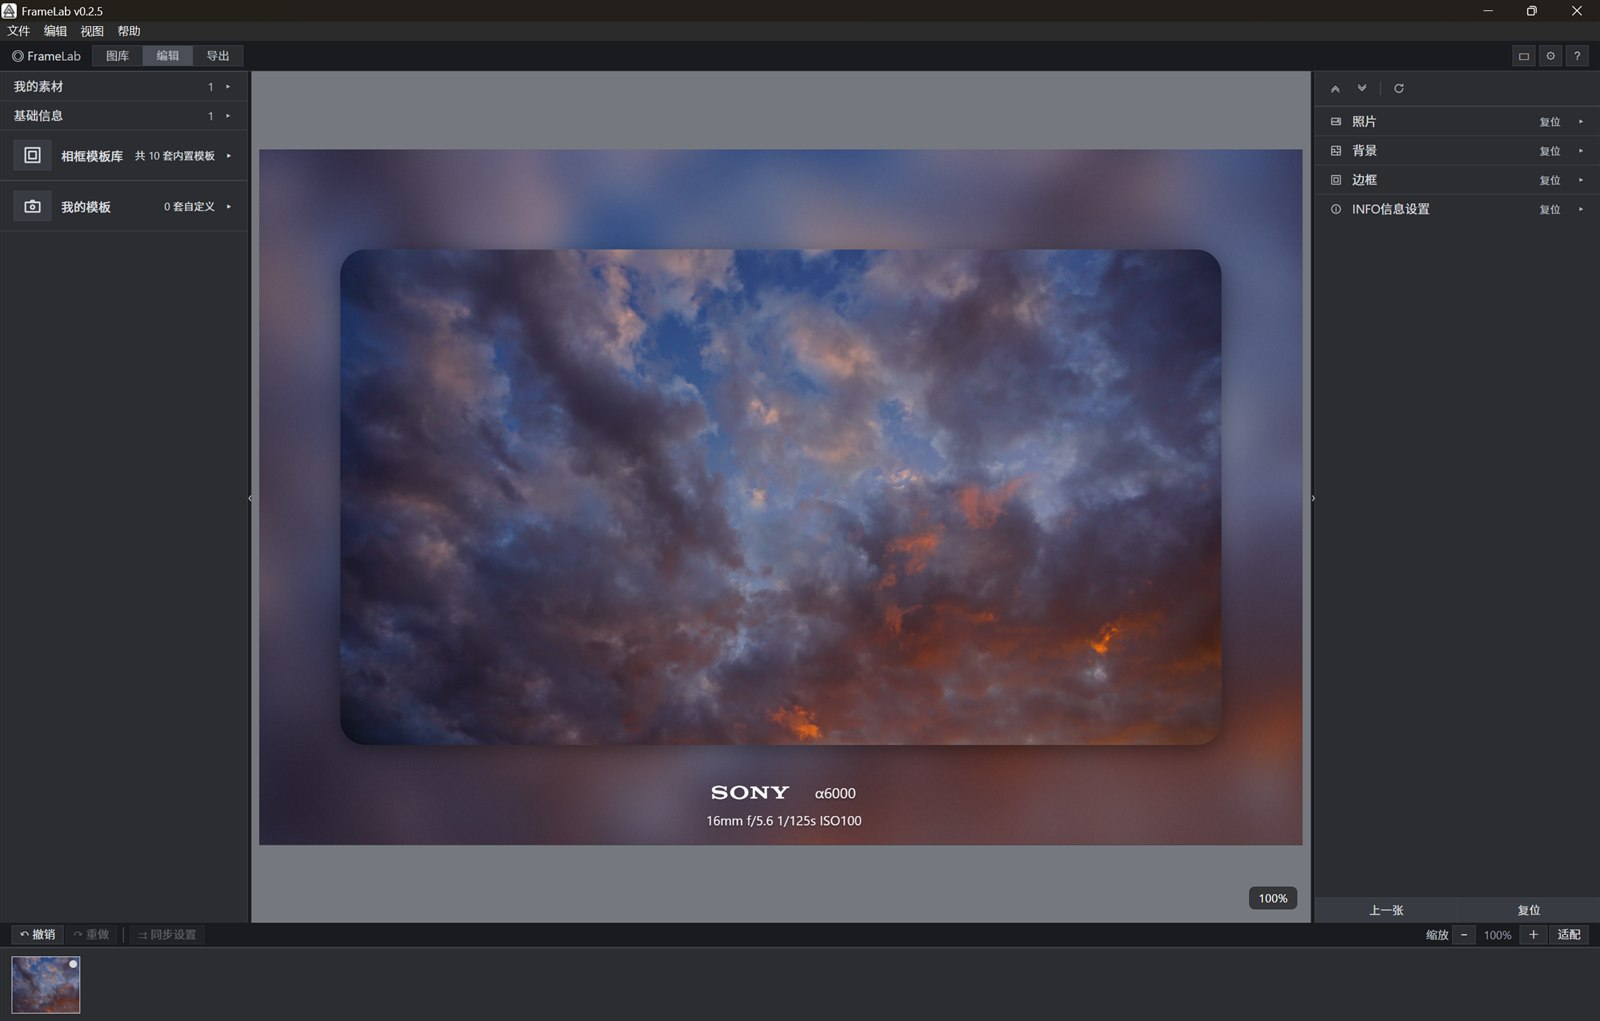
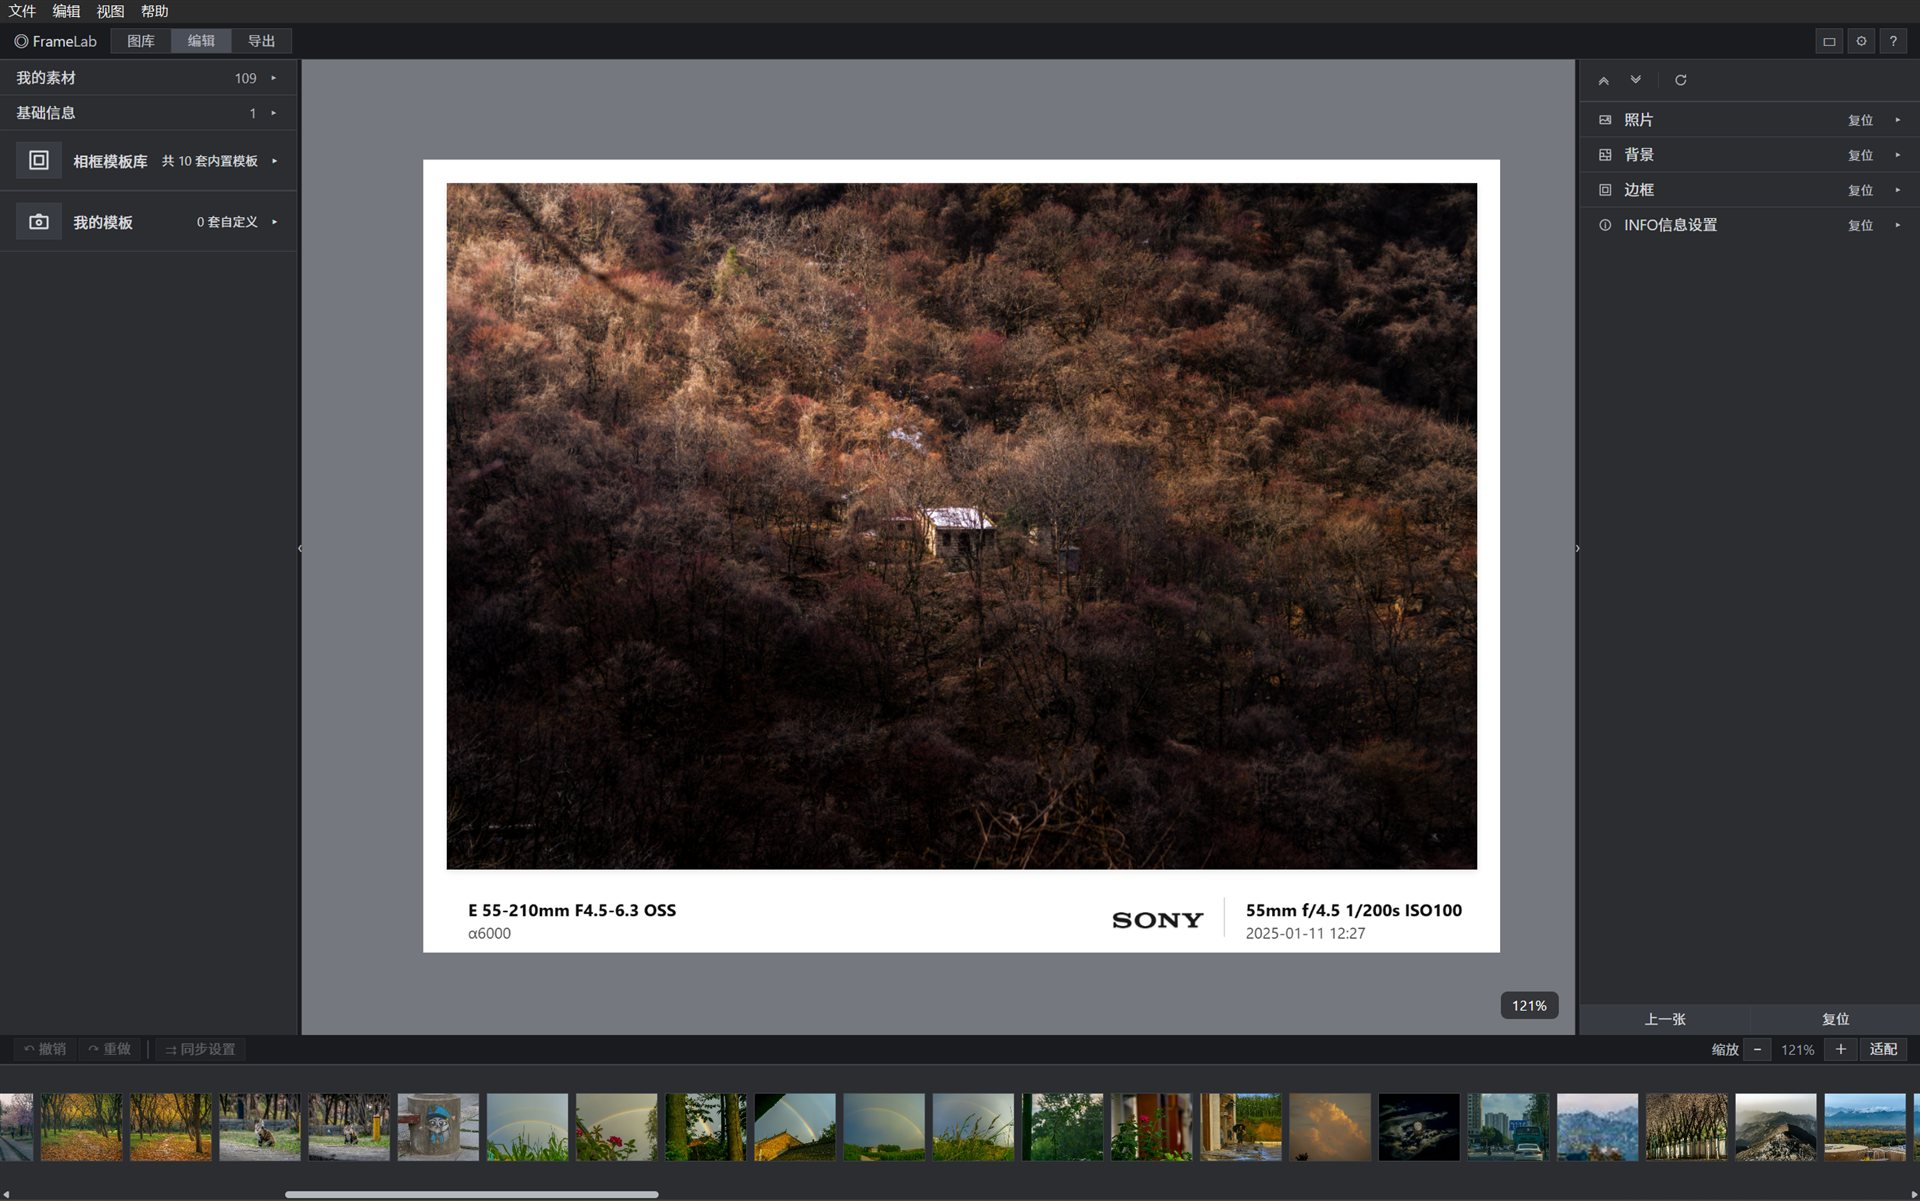
content: 官网/README 界面截图换新——杂志白框模板山林样片（1920w JPG 275KB），alt 同步

diff --git a/website/index.html b/website/index.html
@@ -107,7 +107,7 @@
               <svg viewBox="0 0 24 24" fill="none" stroke="currentColor" stroke-width="2" stroke-linecap="round" stroke-linejoin="round" aria-hidden="true"><path d="M15 3h6v6"/><path d="M9 21H3v-6"/><path d="M21 3l-7 7"/><path d="M3 21l7-7"/></svg>
             </a>
             <iframe class="app-embed" id="appEmbed" src="app/?window=1" title="FrameLab 网页版完整界面（与桌面端一致），可直接操作体验" loading="lazy"></iframe>
-            <img class="app-shot-img" src="assets/screenshot.jpg" alt="FrameLab 应用界面截图：编辑画布加载晚霞样片，信息卡显示 SONY α6000 与拍摄参数" width="2520" height="1608" loading="lazy" decoding="async">
+            <img class="app-shot-img" src="assets/screenshot.jpg" alt="FrameLab 应用界面截图：杂志白框模板加载山林样片，信息带显示 SONY α6000、镜头型号与拍摄参数" width="1920" height="1201" loading="lazy" decoding="async">
           </div>
         </figure>
       </div>

diff --git a/README.md b/README.md
@@ -20,7 +20,7 @@
 ---
 
 <div align="center">
-<img src="website/assets/screenshot.jpg" width="860" alt="FrameLab 界面截图：编辑画布加载晚霞样片，信息卡显示 SONY α6000 与拍摄参数" />
+<img src="website/assets/screenshot.jpg" width="860" alt="FrameLab 界面截图：杂志白框模板加载山林样片，信息带显示 SONY α6000、镜头型号与拍摄参数" />
 </div>
 
 ## ✨ 功能特性
